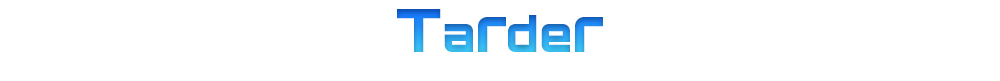
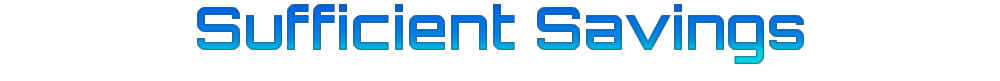
Made the ES Reloaded work again! Definitely! Also spellchecked and beautified Achievements.

Changed region(s): [[0.186, 0.0494, 0.806, 0.7901], [0.651, 0.0494, 0.682, 0.1481]]

diff --git a/jars/src/data/scripts/campaign/Es_BaseAchievementsUnlockPlugin.java b/jars/src/data/scripts/campaign/Es_BaseAchievementsUnlockPlugin.java
@@ -33,17 +33,17 @@ public class Es_BaseAchievementsUnlockPlugin implements EveryFrameScript {
 		boolean condition_credits[] = (boolean[]) conditionData.get(ACHIEVEMENT_CREDITS_ID);
 		
 		float credits = fleet.getCargo().getCredits().get();
-		if (!condition_credits[0] && credits >= 10000f) {
-			Global.getSector().getPersistentData().put("Es_tenthousandcredits", true);
+		if (!condition_credits[0] && credits >= 50000f) {
+			Global.getSector().getPersistentData().put("Es_creditLevel1", true);
 			condition_credits[0]=true;
-		}else if (!condition_credits[1] && credits >= 20000f) {
-			Global.getSector().getPersistentData().put("Es_twentythousandcredits", true);
+		}else if (!condition_credits[1] && credits >= 100000f) {
+			Global.getSector().getPersistentData().put("Es_creditLevel2", true);
 			condition_credits[1]=true;
-		}else if (!condition_credits[2] && credits >= 50000f) {
-			Global.getSector().getPersistentData().put("Es_fiftythousandcredits", true);
+		}else if (!condition_credits[2] && credits >= 1000000f) {
+			Global.getSector().getPersistentData().put("Es_creditLevel3", true);
 			condition_credits[2]=true;
-		}else if (!condition_credits[3] && credits >= 100000f) {
-			Global.getSector().getPersistentData().put("Es_onehundredthousandcredits", true);
+		}else if (!condition_credits[3] && credits >= 10000000f) {
+			Global.getSector().getPersistentData().put("Es_creditLevel4", true);
 			condition_credits[3]=true;
 		}
 		

diff --git a/jars/src/data/scripts/campaign/Es_ShipLevelFunctionPlugin.java b/jars/src/data/scripts/campaign/Es_ShipLevelFunctionPlugin.java
@@ -375,9 +375,9 @@ public class Es_ShipLevelFunctionPlugin implements InteractionDialogPlugin {
 				max=(int)HULLSIZE_TO_MAXLEVEL.get(hullSize);
 				int levelnow=option_SkillValue.containsKey(optionId)?option_SkillValue.get(optionId):0;
 				if (levelnow>=max) {
-					options.addOption(data[i]+"("+level+") (Full)", optionId,tooltips[i]);
+					options.addOption(data[i]+" ("+level+") (Full)", optionId,tooltips[i]);
 				}else {
-					options.addOption(data[i]+"("+level+")", optionId,tooltips[i]);
+					options.addOption(data[i]+" ("+level+")", optionId,tooltips[i]);
 				}
 			}
 			addText(TextTip.quality1);
@@ -512,7 +512,7 @@ public class Es_ShipLevelFunctionPlugin implements InteractionDialogPlugin {
 			if (arg == 1.5f) {
 				text = Global.getSettings().getString("QualityName", "s_perfect");				
 			}else {
-				text = "(Are you Cheated)";				
+				text = "(WTF?!)";
 			}
 		}
 		return text;

diff --git a/jars/src/data/scripts/util/AchievementData.java b/jars/src/data/scripts/util/AchievementData.java
@@ -1,10 +1,10 @@
 package data.scripts.util;
 
 import java.io.IOException;
-import java.util.ArrayList;
-import java.util.HashMap;
+import java.util.LinkedHashMap;
 import java.util.List;
 import java.util.Map;
+
 
 import org.json.JSONArray;
 import org.json.JSONException;
@@ -25,8 +25,8 @@ public class AchievementData {
 	private Map<String,AchievementInfo>achievementMaps;
 	private Map<String, Object>CustomData;
 	public AchievementData(){
-		achievementMaps = new HashMap<>();
-		CustomData = new HashMap<>();
+		achievementMaps = new LinkedHashMap<>();
+		CustomData = new LinkedHashMap<>();
 		try {
 			loadAndCheck();
 		} catch (IOException e) {

diff --git a/jars/src/data/scripts/campaign/Es_ShipTotalFunctionPlugin.java b/jars/src/data/scripts/campaign/Es_ShipTotalFunctionPlugin.java
@@ -95,7 +95,8 @@ public class Es_ShipTotalFunctionPlugin implements InteractionDialogPlugin {
 				if (info.isDone()) {
 					addText("**"+info.getName()+"**");
 					addText("Conditions:");
-					addText(info.getTooltip2(),Color.green);
+					appendText(info.getTooltip2());
+					textPanel.highlightLastInLastPara(info.getTooltip2(),Color.green);
 					addText(info.getTooltip1(),Color.yellow);
 					addText("");
 				}

diff --git a/jars/src/data/scripts/campaign/Es_CampaignRenderPlugin.java b/jars/src/data/scripts/campaign/Es_CampaignRenderPlugin.java
@@ -102,6 +102,6 @@ public class Es_CampaignRenderPlugin implements EveryFrameScript{
 		String name = info.getName();
 		ui.addMessage(new MessageIntel(info.getTooltip2(), Color.green));
 		ui.addMessage(new MessageIntel(info.getTooltip1()));
-		ui.addMessage(new MessageIntel("Achievement Unlock: "+name,  Color.yellow));
+		ui.addMessage(new MessageIntel("Achievement Unlocked: "+name,  Color.yellow));
 	}
 }
